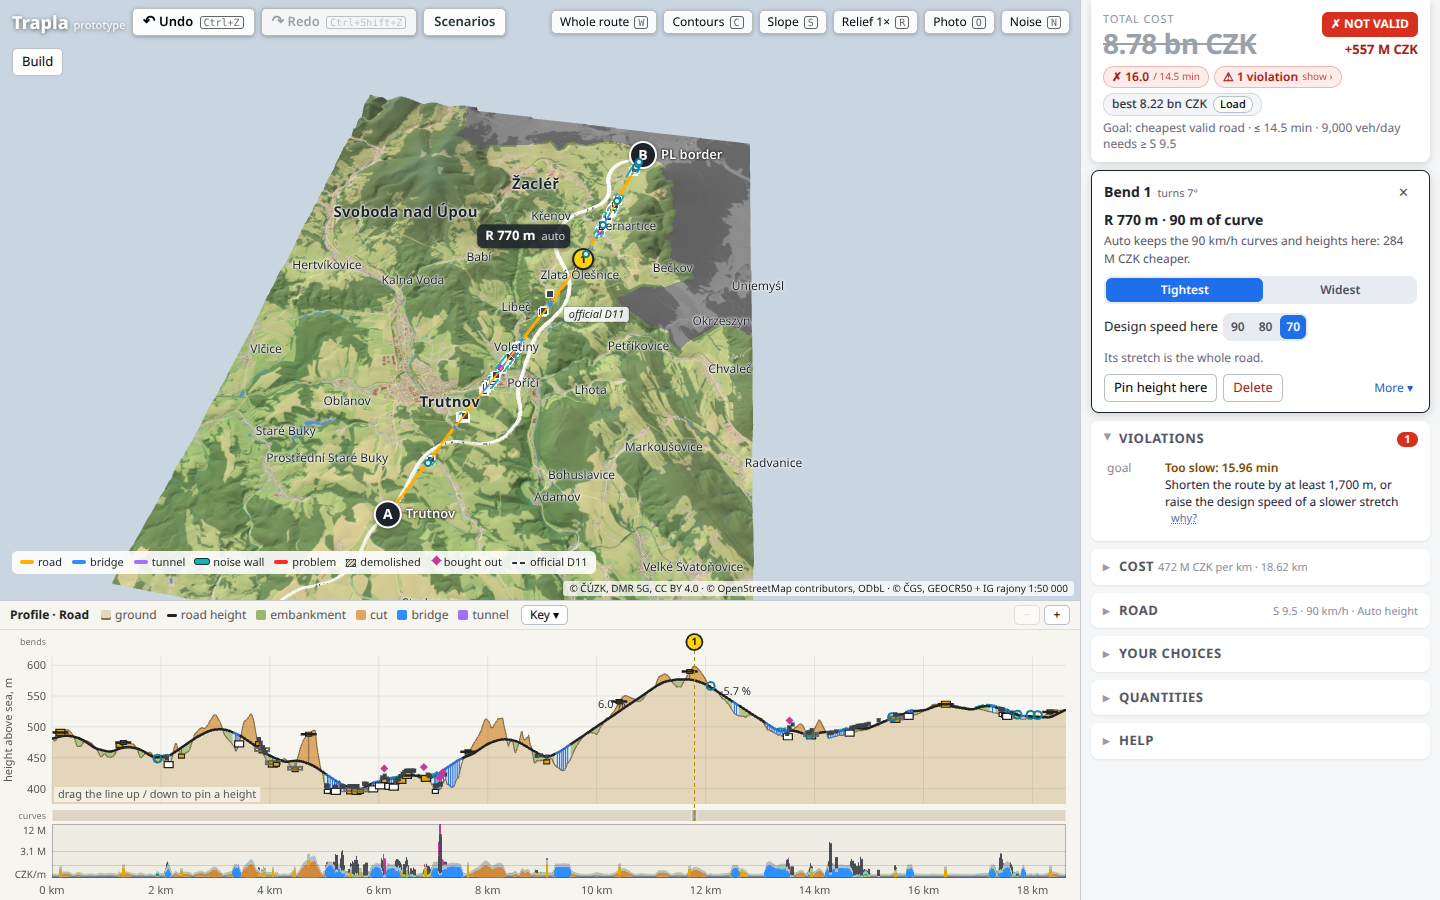
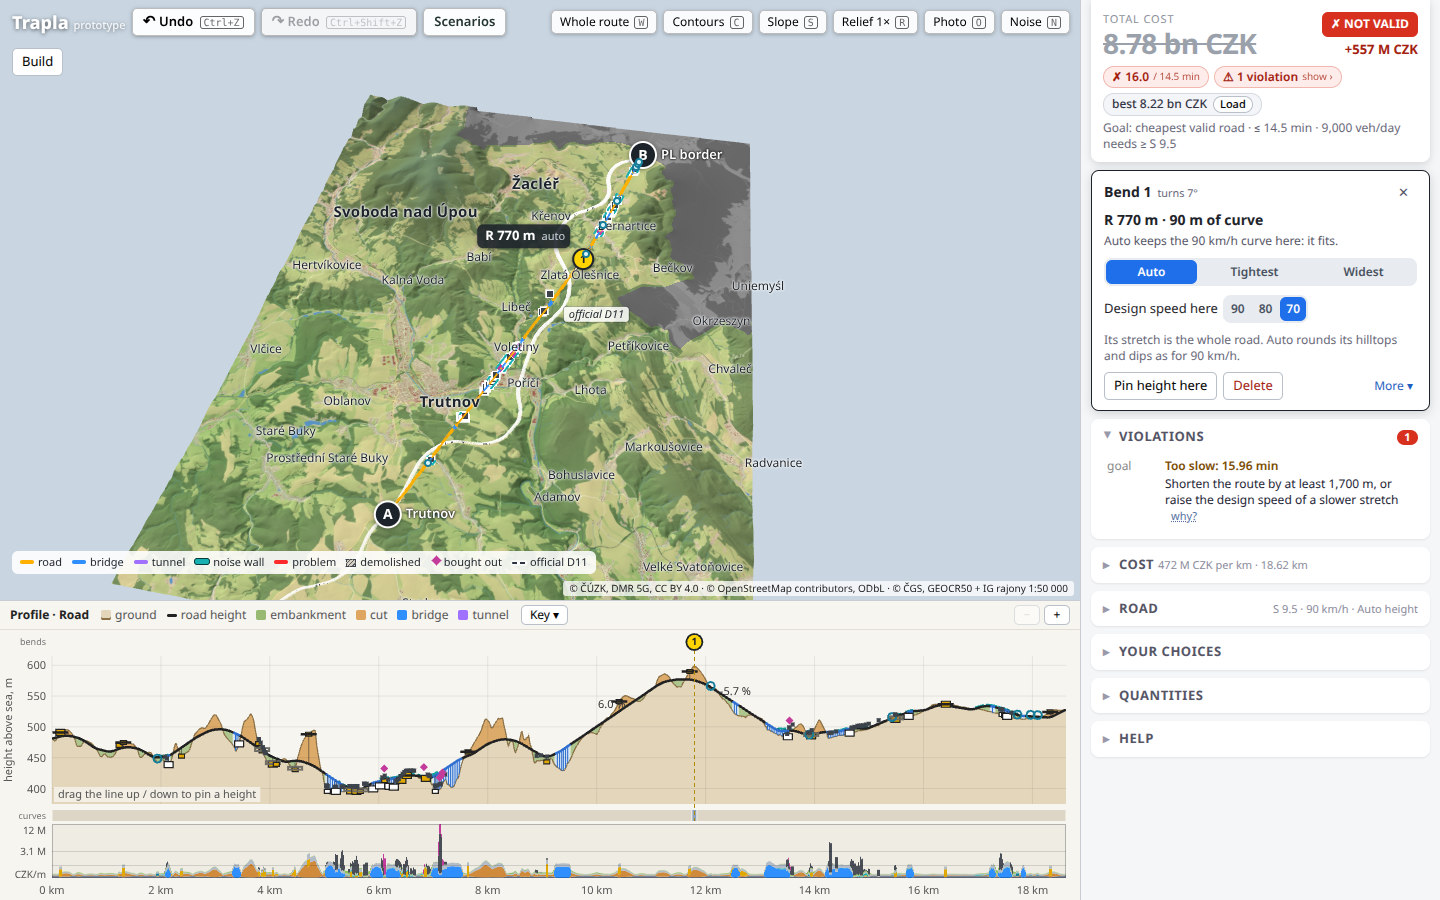
research/66, PLAN.md, README, shot 290: slowed stretches keep faster elements where they fit, one more pass for the heights; drag-perf on a slowed design within budget in all modes

diff --git a/src/core/data/prices.ts b/src/core/data/prices.ts
@@ -102,8 +102,9 @@
  * (No version: a later finish of an evaluation builds again only the crossings near where its road differs from
  * an earlier finish's, crossings-kept.ts. No bill, validity or other field moved on any checked design:
  * docs/evaluate-performance.md.)
- * 39: playtest sweep 3. A stretch slowed below its road's speed keeps a faster speed's curves and heights where the
- * bill finds them cheaper (research/66; designs with slowed bends only); a bend is never faster than its road;
+ * 39: playtest sweep 3. A slowed bend keeps the road speed's curve where it fits, a slowed stretch's heights are
+ * searched as for the road's speed with its own smaller curves weighed in one more pass (research/66; designs with
+ * slowed bends only); a bend is never faster than its road;
  * arches rise to 1/3.5 of their span, a bridge to 3.3 × its arch, the rib's clearance in the search, an arch Auto's
  * only without a lift (research/69). Frozen bills and starters unchanged (runs carry the arch prices / reasons);
  * outcome audit random-3 −31.5 M (the arch options steer its support lifts). */

diff --git a/research/66-design-speed-and-the-bill.md b/research/66-design-speed-and-the-bill.md
@@ -26,37 +26,46 @@ With the 90 km/h line kept on the 70 km/h plan (By hand), the bill is 8,732 M: t
 Over the best design (18 Auto bends, each alone at 80 or 70): −35 … +45 M, 14 of 36 slow-downs dearer (the same gap,
 smaller; the bend's tighter Auto radius also moves the line a little).
 
-## 2. The fix: Auto keeps a faster stretch's geometry where the bill finds it cheaper
+## 2. The fix: faster elements where they fit; the slower ones weighed in one pass
 
-A designer given a lower design speed for a stretch uses its smaller elements only where they pay. Every line built
-for a faster speed meets the slower stretch's rules (larger radii, gentler curves). So Auto now also evaluates the
-design with the slowed bends' curves and heights built for faster speeds — every mix of each slowed bend's speeds
-from its own up to the road's (hairpins keep theirs); where that is more than 8 evaluations, every slowed bend
-raised the same number of steps — and keeps the cheapest that has no more problems (`design-speed.ts
-geometryCandidates`, `evaluate.ts`; `EvalOptions.geometrySpeeds`). Travel time and the time goal stay at the bends'
-own speeds. A drag preview builds the geometry the last full result kept. By hand too: a bend's Auto radius is
-Auto's choice there as well, and a line taken by hand from Auto's was built on the geometry Auto kept (without it,
-taking the best design's line by hand with bend 1 at 70 changed that bend's radius 280 → 205 m and the bill +6 M).
+**First attempt (reviewed, replaced).** Every line built for a faster speed meets a slower stretch's rules, so Auto
+evaluated the design once more per faster geometry (every mix of each slowed bend's speeds) and kept the cheapest.
+Monotone, but 2–9 full evaluations per design: D11 one bend at 70 km/h 1.2 s against 0.3 s, too slow (owner).
+Cheaper rankings tried on the best design's 36 single-bend slow-downs (each against the road-speed line):
+- **a preview** (one solve, one engineering pass, no retaining walls, no crossing geometry): its differences
+  missed the full ones by up to ±25 M (e.g. bend 6 at 80: full −18.6 M, preview −0.1 M; bend 8 at 80: full +8.1 M,
+  preview −16.8 M): useless for a ranking at this scale;
+- **the first pass** of a full evaluation (before the retries): within 0.5 M of the full difference on all 36.
 
-| repro | before | after |
+**The mechanism now** (`plan-speeds.ts`, `design-speed.ts searchSpeeds`, `evaluate.ts`):
+1. *Plan.* A designer uses a slower stretch's smaller elements where the faster ones do not fit ("přechod na
+   minimální hodnotu návrhového prvku byl pozvolný", the transition to minimum elements gradual: VUT, research/47
+   §2). A slowed bend whose radius is Auto's keeps the curve of the fastest speed up to the road's that has no
+   horizontal problem its own speed's curve does not have; elsewhere its own tightest (three bends 330 m apart all at
+   70 km/h: 90 km/h S-bends do not fit, the middle bend takes its 70 km/h curve). "Tightest" on a slowed bend is the
+   player's choice (its own speed's tightest, set as the player's radius).
+2. *Heights.* The grade search rounds a slowed stretch's hilltops and dips as for the road's speed. Its own
+   smaller curves are weighed in one more pass of the same evaluation (its caches: the plan is the same), compared
+   before the retries as the first passes are (above), and kept where that line is cheaper with no more problems
+   (or has fewer).
+
+| repro | QA (model 38) | now |
 |---|---:|---:|
-| D11 one bend 90 / 80 / 70 | 8,782 / 8,783 / 9,067 M | 8,782 / 8,782 / 8,782 M (70: the 90 km/h geometry kept, 284 M cheaper) |
-| best design, 36 single-bend slow-downs | 14 dearer (up to +45 M) | none dearer; every 70 ≤ its 80 |
-| Královec railway, bend 3 at 100 | +47 M (QA) | 0 (the 120 km/h geometry kept) |
+| D11 one bend 90 / 80 / 70 | 8,782 / 8,783 / 9,067 M | 8,782 / 8,783 / 8,782 M |
+| best design, 36 single-bend slow-downs | 14 dearer (to +45 M) | none dearer; savings to −44 M (bend 13 at 70) |
+| Královec railway, bend 3 at 100 | +47 M | 0 |
 
-Guarantee: a slowed design costs no more than the same design with any of its slowed bends faster (its candidates
-include that design's geometry), so 70 ≤ 80 ≤ 90 bend by bend, and slowing one more bend costs nothing (review:
-best design, bend 1 at 70, then bend 5 at 70 as well: 3,592.6 → 3,608.8 M with the steps raised together, 3,592.6 M
-now). It holds up to 8 candidate geometries (two bends two steps down); beyond, per step only.
+Not a proof: the weighing is before the retries, so a near tie may end about 1 M either way (D11 one bend at 80:
++1.1 M); the 284 M kind of error is caught.
 
 The bend card says which kilometres the stretch covers ("Its stretch is the whole road" for one bend; else "Its
-stretch: km a–b", halfway along the straights to its neighbours) and, where Auto kept faster geometry, "Auto keeps the 90 km/h curves and heights here:
-284 M CZK cheaper."
+stretch: km a–b", halfway along the straights to its neighbours), "Auto keeps the 90 km/h curve here: it fits." and
+"Auto rounds its hilltops and dips as for 90 km/h." where it does.
 
-**Price in time.** A design with slowed bends is evaluated once more per candidate geometry (D11 one bend: 300 ms
-at 90, 740 ms at 80, 1.2 s at 70; the best design with two bends at 70: 1.6 s). Designs without slowed bends are unchanged (all frozen fixtures and
-drag-perf cases). The lasting fix is the grade search pricing the crossed roads (PLAN.md "Next steps" 1); then the
-candidates would rarely win.
+**Time.** One more pass for a design with slowed bends: D11 one bend at 70 0.45 s (0.27 s at 90); the best design
+with a bend at 70 0.23 s (0.16 s). Drags (`drag-perf --gpu --check`, all six modes, the best design with bends 4 at
+80 and 10 at 70): all within budget, settle after release 472 ms (the same design unslowed: 464 ms). The lasting fix
+is the grade search pricing the crossed roads (PLAN.md "Next steps" 1).
 
 ## 3. Which speeds a bend may have
 

diff --git a/PLAN.md b/PLAN.md
@@ -828,15 +828,14 @@ Shots 290–297 (`scripts/qa3-fixes-shots.mjs`).
 - **A slowed stretch never makes Auto's road dearer.** The grade search is monotone in its own objective (D11, one
   bend at 70: every block cheaper by its estimate, 4,398 → 4,171 M), but it prices no crossed roads: at 70 it took a
   line 10 m higher at km 9, where a field track 17 m under the fill forced a bridge that joined the stream bridge
-  (800 m, +284 M on the bill). Every line built for a faster speed meets a slower stretch's rules, so Auto now also
-  evaluates the design with the slowed bends' curves and heights built for faster speeds (every mix of each slowed
-  bend's speeds up to the road's, at most 8; beyond, the steps raised together; By hand too) and keeps the cheapest
-  with no more problems
-  (`EvalOptions.geometrySpeeds`, `Result.geometrySpeeds / geometrySaving`; previews build what the last full result
-  kept). D11 one bend 90 / 80 / 70: 8,782 / 8,782 / 8,782 M (was 9,067 at 70); best design, 36 single-bend
-  slow-downs: none dearer (was 14). Price: one more evaluation per candidate geometry (D11 one bend:
-  0.3 / 0.74 / 1.2 s at 90 / 80 / 70; two bends at 70: 1.6 s); designs without slowed bends unchanged. The bend card says which km its
-  stretch covers ("Its stretch is the whole road" with one bend) and what Auto kept.
+  (800 m, +284 M on the bill). Now a slowed bend keeps the road speed's curve where it fits (`plan-speeds.ts`;
+  "Tightest" is the player's), and the grade search rounds a slowed stretch's heights as for the road's speed, its
+  own smaller curves weighed in one more pass before the retries (the first pass ranks within 0.5 M of the full
+  bill; a preview missed by ±25 M). D11 one bend 90 / 80 / 70: 8,782 / 8,783 / 8,782 M (was 9,067 at 70); best
+  design, 36 single-bend slow-downs: none dearer (was 14), savings to −44 M. Time: one more pass (D11 one bend at 70
+  0.45 s, 0.27 s at 90); drags within budget in all six modes on a slowed design, settle 472 ms (unslowed 464).
+  (A first version evaluated every faster geometry in full: 2–9 evaluations, 1.2 s, replaced.) The bend card says
+  which km its stretch covers ("Its stretch is the whole road" with one bend) and what Auto kept.
 - **No bend faster than its road.** ČSN 73 6101:2018 lowers a stretch's design speed; a railway's line speed is its
   mission's: the railway mission's bend card offers 120 · 100 · 80 · 60, "no faster than the whole line, 120 km/h".
   A saved faster bend is evaluated at the road's speed. Recorded, not fixed: the Královec bend 3 at 160 billed

diff --git a/README.md b/README.md
@@ -419,8 +419,8 @@ here](docs/screenshots/230-town-centre-long-span-over-railway.png),
 [D3 motorway km 8.59: "Our bridge over it" in our cutting is built, and its card says what raising our motorway
 for it cost](docs/screenshots/231-d3-motorway-our-bridge-over-track-raised.png).
 Playtest sweep 3 fixes (cost model 39, PLAN.md "Playtest sweep 3"; `node scripts/qa3-fixes-shots.mjs`): [D11, one
-bend slowed to 70 km/h: its stretch is the whole road, Auto keeps the 90 km/h curves and heights (284 M
-cheaper)](docs/screenshots/290-d11-one-bend-70-keeps-90-geometry.png),
+bend slowed to 70 km/h: its stretch is the whole road, Auto keeps the 90 km/h curve and heights (the 70 km/h line
+was 284 M dearer)](docs/screenshots/290-d11-one-bend-70-keeps-90-geometry.png),
 [a bend turning back on itself on steep ground offers a hairpin](docs/screenshots/291-d11-near-u-turn-offers-hairpin.png)
 ([made one](docs/screenshots/292-d11-u-turn-made-a-hairpin.png)),
 [the railway mission's bend: no speed above the line's 120 km/h](docs/screenshots/293-rail-bend-speeds-up-to-the-line.png),
